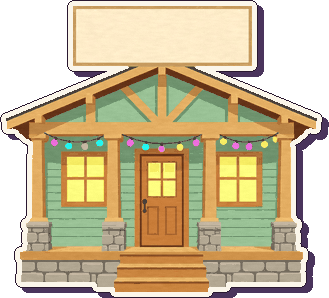
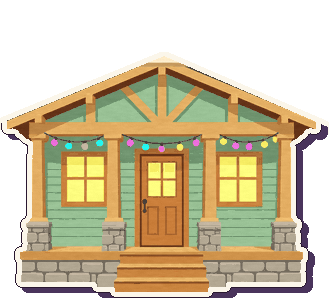
Bungalows door: erase the signboard down to the roof instead of cropping the gable flat
clear-door-sign.py gains a roof mode: the gable's wood edges are fitted from the columns either side of the
board, everything above them goes, and the sticker border is redrawn along the whole roof line.

Changed region(s): [[0.0, 0.0, 1.0, 0.4228]]

diff --git a/js/hq.js b/js/hq.js
@@ -377,7 +377,7 @@
   const DOOR_SIGN = {
     'newyork/centralpark': 0, 'newyork/brooklyn': 70, 'chicago/loop': 66, 'chicago/lincolnpark': 60, 'chicago/wickerpark': 68,
     'dc/georgetown': 62, 'naples/harbor': 60, 'naples/center': 48, 'naples/hillside': 72,
-    'california/downtown': 74, 'california/beach': 68, 'california/bungalows': 66,
+    'california/downtown': 74, 'california/beach': 68, 'california/bungalows': 0,
   };
 
   // The delivery: the neighborhood behind, the door, whoever ordered, and the pizza that made it.

diff --git a/scripts/clear-door-sign.py b/scripts/clear-door-sign.py
@@ -2,24 +2,53 @@
 
 Floods out the board from its top rows through every non-leaf colour, stopping at row LIMIT, drops leftover specks,
 then redraws the paper sticker edge (cream border, ink shadow) along the newly exposed top.
-    python3 scripts/clear-door-sign.py IN.png OUT.png
+    python3 scripts/clear-door-sign.py IN.png OUT.png             # flood mode (Central Park's arch of leaves)
+    python3 scripts/clear-door-sign.py IN.png OUT.png --roof      # roof mode: the board sits on a gable roof of the
+        same colours as the board's frame, so instead of flooding, the roof's two top edges are fitted from the columns
+        either side of the board and everything above them goes (the Bungalows).
 """
 import sys
 from collections import deque
 from PIL import Image, ImageFilter, ImageChops
 src, out = sys.argv[1], sys.argv[2]
+ROOF = '--roof' in sys.argv
 im = Image.open(src).convert('RGBA'); W, H = im.size; px = im.load()
 LIMIT = 80  # nothing below this row is touched by the flood
-leafy = lambda r, g, b: g > r + 10 and g > b + 10
-gone = set(); q = deque((x, y) for y in range(56) for x in range(W) if px[x, y][3] > 0)
-gone.update(q)
-while q:
-    x, y = q.popleft()
-    for nx, ny in ((x+1, y), (x-1, y), (x, y+1), (x, y-1)):
-        if 0 <= nx < W and 0 <= ny < LIMIT and (nx, ny) not in gone:
-            r, g, b, a = px[nx, ny]
-            if a > 0 and not leafy(r, g, b):
-                gone.add((nx, ny)); q.append((nx, ny))
+def roof_cut():
+    """The board and everything it left on the gable. Two lines are fitted (least squares) to each side of the roof,
+    from the columns clear of the board and its border and shadow: the top of the roof's sticker border (kept as is
+    outside the board) and the top of the wood itself (the cut under the board, where the border was hidden; the
+    border is redrawn there afterwards). The board is the run of columns whose first opaque row is near the top."""
+    pale = lambda c: c[3] > 0 and min(c[:3]) > 200            # the cream sticker border and the board's paper
+    first = [next((y for y in range(H) if px[x, y][3] > 0), H) for x in range(W)]
+    wood = [next((y for y in range(H) if px[x, y][3] > 0 and not pale(px[x, y]) and sum(px[x, y][:3]) > 200), H) for x in range(W)]
+    board = [x for x in range(W) if first[x] < 8]
+    lo, hi = min(board) - 16, max(board) + 16                 # the board, its border and its shadow
+    def fit(xs, top):
+        xs = [x for x in xs if top[x] < H]
+        n = len(xs); mx = sum(xs) / n; my = sum(top[x] for x in xs) / n
+        k = sum((x - mx) * (top[x] - my) for x in xs) / sum((x - mx) ** 2 for x in xs)
+        return lambda x: my + k * (x - mx)
+    L, R = range(max(0, lo - 60), lo), range(hi + 1, min(W, hi + 61))
+    woodtop = lambda x: max(fit(L, wood)(x), fit(R, wood)(x))
+    # The whole gable is cut to the wood and its border redrawn, so the outline has no step where the board was.
+    cut = woodtop
+    return {(x, y) for x in range(W) for y in range(min(H, int(cut(x)) + 1)) if px[x, y][3] > 0 and y < cut(x)}
+
+
+if ROOF:
+    gone = roof_cut()
+else:
+    leafy = lambda r, g, b: g > r + 10 and g > b + 10
+    gone = set(); q = deque((x, y) for y in range(56) for x in range(W) if px[x, y][3] > 0)
+    gone.update(q)
+    while q:
+        x, y = q.popleft()
+        for nx, ny in ((x+1, y), (x-1, y), (x, y+1), (x, y-1)):
+            if 0 <= nx < W and 0 <= ny < LIMIT and (nx, ny) not in gone:
+                r, g, b, a = px[nx, ny]
+                if a > 0 and not leafy(r, g, b):
+                    gone.add((nx, ny)); q.append((nx, ny))
 for x, y in gone: px[x, y] = (0, 0, 0, 0)
 # Strays: small opaque islands left above the arch once the sign is gone.
 seen = set()
@@ -43,7 +72,12 @@ border = body.filter(ImageFilter.MaxFilter(9))          # 4 px ring
 shadow = Image.new('L', im.size, 0); shadow.paste(border, (3, 4))   # shifted, no wrap-around
 ring = ImageChops.subtract(border, body)
 shad = ImageChops.subtract(ImageChops.subtract(shadow, border), Image.new('L', im.size, 0))
-top = Image.new('L', im.size, 0); top.paste(255, (0, 0, W, LIMIT + 6))
+top = Image.new('L', im.size, 0)
+if ROOF:   # redraw the edge only next to what was cut away
+    cleared = Image.new('L', im.size, 0); cleared.putdata([255 if (i % W, i // W) in gone else 0 for i in range(W * H)])
+    top = cleared.filter(ImageFilter.MaxFilter(15))
+else:
+    top.paste(255, (0, 0, W, LIMIT + 6))
 ring = ImageChops.multiply(ring, top); shad = ImageChops.multiply(shad, top)
 cream = Image.new('RGBA', im.size, (251, 246, 234, 255)); ink = Image.new('RGBA', im.size, (74, 52, 92, 255))
 outimg = Image.new('RGBA', im.size, (0, 0, 0, 0))
